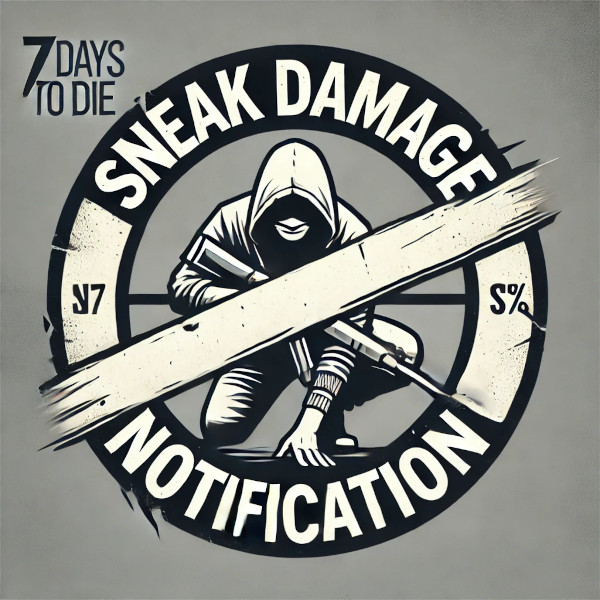
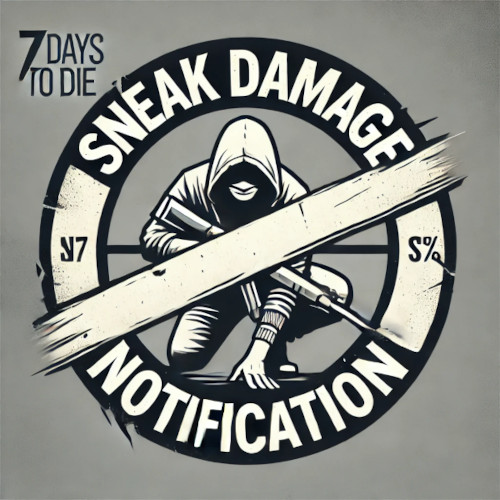
docs: Decrease showcase to 500px.

diff --git a/readme.md b/readme.md
@@ -1,11 +1,11 @@
 [//]: # (DO NOT EDIT: This file has been autogenerated, any changes will be overwritten)
 # 7 Days to Die Mod - No Sneak Damage Notification
-[![nexus-mods-collection-immersive-hud](https://img.shields.io/badge/Nexus%20Mods%20Collection-Immersive%20HUD%20-orange?style=flat-square&logo=spinrilla)](https://next.nexusmods.com/7daystodie/collections/epfqzi) [![nexus-mods-page](https://img.shields.io/badge/Nexus%20Mod-Immersive%20Loading%20Screens%20-orange?style=flat-square&logo=spinrilla)](https://www.nexusmods.com/7daystodie/mods/5893) [![github-repository](https://img.shields.io/badge/GitHub-Repository-green?style=flat-square&logo=github)](https://github.com/rdok/7daystodie_mod_no_sneak_damage_notification)
+[![nexus-mods-collection-immersive-hud](https://img.shields.io/badge/Nexus%20Mods%20Collection-Immersive%20HUD%20-orange?style=flat-square&logo=spinrilla)](https://next.nexusmods.com/7daystodie/collections/epfqzi) [![nexus-mods-page](https://img.shields.io/badge/Nexus%20Mod-Immersive%20Loading%20Screens%20-orange?style=flat-square&logo=spinrilla)](https://www.nexusmods.com/7daystodie/mods/5893) [![github-repository](https://img.shields.io/badge/GitHub-Repository-green?style=flat-square&logo=github)](https://github.com/rdok/7daystodie_mod_no_notify_sneak_damage)
 
 > Disable the sneak damage notification.  
 > **EAC:** This mod uses custom code that is not compatible with Easy Anti-Cheat (EAC).
  
-[![No Sneak Damage Notification](https://raw.githubusercontent.com/rdok/7daystodie_mod_no_sneak_damage_notification/main/documentation/showcase.jpg)](https://www.nexusmods.com/7daystodie/mods/5893)
+[![No Sneak Damage Notification](https://raw.githubusercontent.com/rdok/7daystodie_mod_no_notify_sneak_damage/main/documentation/showcase.jpg)](https://www.nexusmods.com/7daystodie/mods/5893)
 
 ## Features
 - Disable the sneak damage notification.   

diff --git a/documentation/about.md b/documentation/about.md
@@ -1,10 +1,10 @@
 # 7 Days to Die Mod - No Sneak Damage Notification
-[![nexus-mods-collection-immersive-hud](https://img.shields.io/badge/Nexus%20Mods%20Collection-Immersive%20HUD%20-orange?style=flat-square&logo=spinrilla)](https://next.nexusmods.com/7daystodie/collections/epfqzi) [![nexus-mods-page](https://img.shields.io/badge/Nexus%20Mod-Immersive%20Loading%20Screens%20-orange?style=flat-square&logo=spinrilla)](https://www.nexusmods.com/7daystodie/mods/5893) [![github-repository](https://img.shields.io/badge/GitHub-Repository-green?style=flat-square&logo=github)](https://github.com/rdok/7daystodie_mod_no_sneak_damage_notification)
+[![nexus-mods-collection-immersive-hud](https://img.shields.io/badge/Nexus%20Mods%20Collection-Immersive%20HUD%20-orange?style=flat-square&logo=spinrilla)](https://next.nexusmods.com/7daystodie/collections/epfqzi) [![nexus-mods-page](https://img.shields.io/badge/Nexus%20Mod-Immersive%20Loading%20Screens%20-orange?style=flat-square&logo=spinrilla)](https://www.nexusmods.com/7daystodie/mods/5893) [![github-repository](https://img.shields.io/badge/GitHub-Repository-green?style=flat-square&logo=github)](https://github.com/rdok/7daystodie_mod_no_notify_sneak_damage)
 
 > Disable the sneak damage notification.  
 > **EAC:** This mod uses custom code that is not compatible with Easy Anti-Cheat (EAC).
  
-[![No Sneak Damage Notification](https://raw.githubusercontent.com/rdok/7daystodie_mod_no_sneak_damage_notification/main/documentation/showcase.jpg)](https://www.nexusmods.com/7daystodie/mods/5893)
+[![No Sneak Damage Notification](https://raw.githubusercontent.com/rdok/7daystodie_mod_no_notify_sneak_damage/main/documentation/showcase.jpg)](https://www.nexusmods.com/7daystodie/mods/5893)
 
 ## Features
 - Disable the sneak damage notification.   
